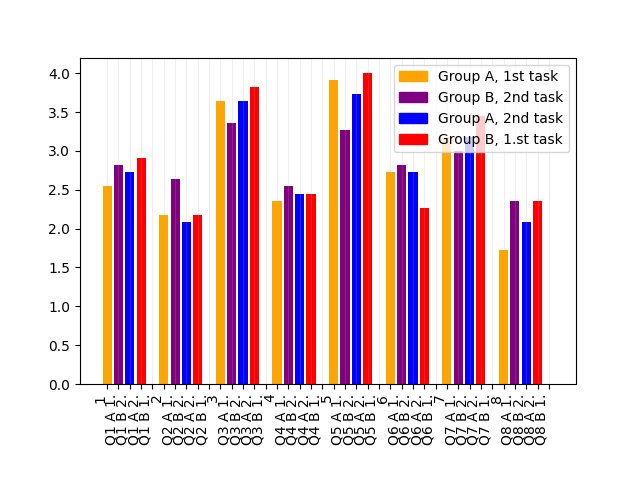
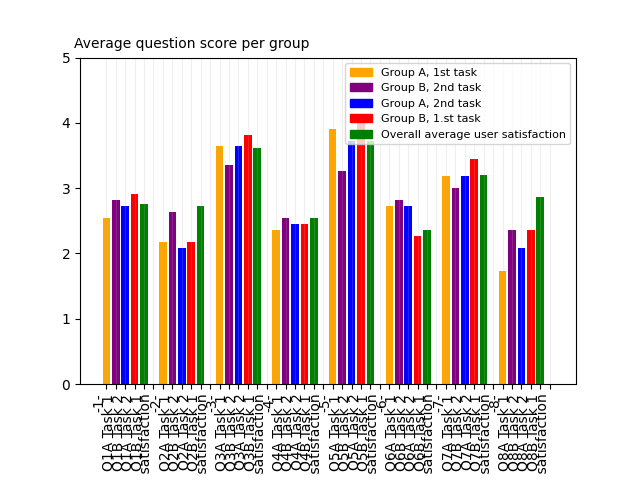
added overall satisfaction to the graph

diff --git a/survey_graph.py b/survey_graph.py
@@ -64,12 +64,21 @@ for question_index in range(8):
     result_array[question_index].append(graph_dictionary["b"]["second"][question_index])
     result_array[question_index].append(graph_dictionary["a"]["second"][question_index])
     result_array[question_index].append(graph_dictionary["b"]["first"][question_index])
+    sum = graph_dictionary["a"]["first"][question_index] + graph_dictionary["b"]["second"][question_index] + graph_dictionary["a"]["second"][question_index] + graph_dictionary["b"]["first"][question_index]
+    avg_sum = sum / 4
+    if question_index % 2 != 0:  # every other question is negated
+        avg_sum = abs(avg_sum - 5)
+    result_array[question_index].append(avg_sum)
     result_array[question_index].append(0)
-    x_task_label.append("{}".format(question_index + 1))
-    x_task_label.append("Q{} A 1.".format(question_index+1))
-    x_task_label.append("Q{} B 2.".format(question_index+1))
-    x_task_label.append("Q{} A 2.".format(question_index+1))
-    x_task_label.append("Q{} B 1.".format(question_index+1))
+
+
+    x_task_label.append("-{}-".format(question_index + 1))
+    x_task_label.append("Q{}A Task 1".format(question_index+1))
+    x_task_label.append("Q{}B Task 2".format(question_index+1))
+    x_task_label.append("Q{}A Task 2".format(question_index+1))
+    x_task_label.append("Q{}B Task 1".format(question_index+1))
+    x_task_label.append("Q{} avg. satisfaction".format(question_index + 1))
+
 
 #print(result_array)
 #x_question_label = ["question {}".format(number + 1) for number in result_array]
@@ -84,13 +93,15 @@ orange_patch = mpatches.Patch(color='orange', label='Group A, 1st task')
 purple_patch = mpatches.Patch(color='purple', label='Group B, 2nd task')
 blue_patch = mpatches.Patch(color='blue', label='Group A, 2nd task')
 red_patch = mpatches.Patch(color='red', label='Group B, 1.st task')
+green_patch = mpatches.Patch(color='green', label='Overall average user satisfaction')
 null_patch = mpatches.Patch(color='black', label="")
 
-plt.legend(handles=[orange_patch,purple_patch,blue_patch,red_patch],loc=1)
+plt.legend(handles=[orange_patch,purple_patch,blue_patch,red_patch,green_patch],loc=1,fontsize=8)
 
-plt.bar(x_task_label,x_values,color=["orange","purple","blue","red","black"])
-
+plt.bar(x_task_label,x_values,color=["orange","purple","blue","red","green","black"])
+plt.ylim(0, 5)
 plt.tick_params(axis='x', which='major', labelsize=10, rotation="auto")
+plt.figtext(0.3, 0.90, "Average question score per group", wrap=True, horizontalalignment='center', fontsize=10)
 plt.gcf().autofmt_xdate(rotation="vertical")
 #plt.ylabel(labels)
 plt.grid(axis='x', alpha=0.2)
